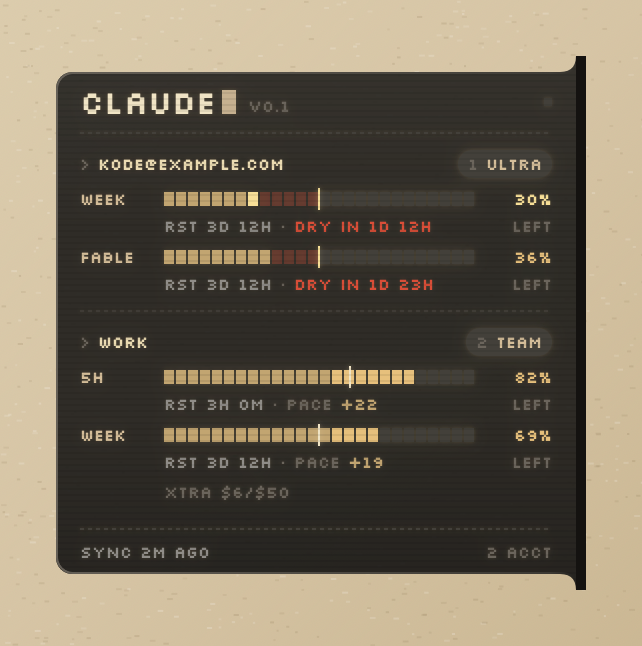
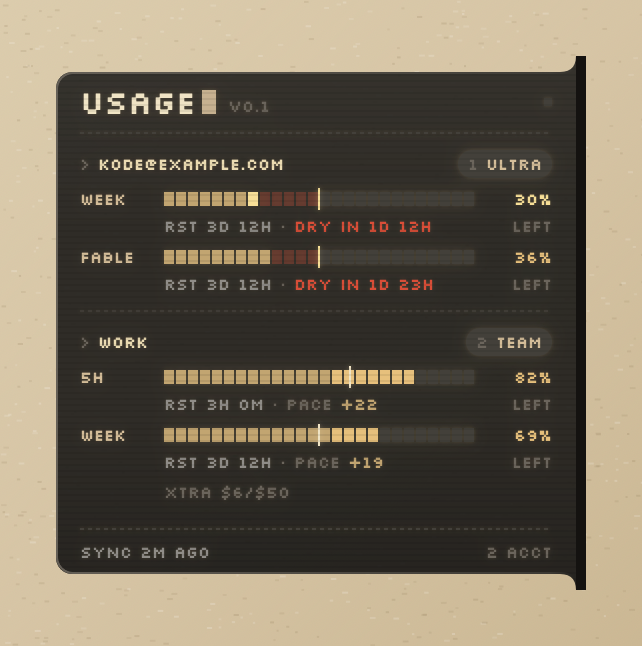
docs: shorten the README and re-render screenshots
The introduction describes the app in neutral terms; the CLI is named where setup
needs it (requirements, sign-in commands, keychain entry, disclaimer). The images
show the new panel header.

Changed region(s): [[0.1246, 0.1238, 0.4361, 0.1858]]

diff --git a/README.md b/README.md
@@ -2,7 +2,7 @@
 
 [![build](https://github.com/konstantindenerz/usage-invader/actions/workflows/build.yml/badge.svg)](https://github.com/konstantindenerz/usage-invader/actions/workflows/build.yml)
 
-A small macOS overlay that shows how much of your Claude subscription is left, for one or
+A small macOS overlay that shows how much of your subscription usage is left, for one or
 several accounts, as a pixel strip on the right edge of the screen. Hover the strip and it
 expands into a panel with percentages, reset countdowns and your burn pace.
 
@@ -16,13 +16,13 @@ expands into a panel with percentages, reset countdowns and your burn pace.
 ## Features
 
 - **All limits at a glance:** current session (5 h), current week, and model-specific weekly limits.
-- **Multiple accounts:** every Claude Code login on the machine is found automatically.
+- **Multiple accounts:** every signed-in account on the machine is found automatically.
 - **Pace:** shows whether you are ahead of or behind an even burn, and when a limit runs dry
   at the current rate.
 - **Stays out of the way:** no Dock icon, a strip of 25.5 pt at the screen edge, plus a menu bar
   item that shows the lowest remaining percentage.
 - **Two skins** for the collapsed strip: Invader (default) and Instrument.
-- **Read-only and local:** reads the token Claude Code already stores, talks only to
+- **Read-only and local:** reads the token already stored in your keychain, talks only to
   `api.anthropic.com`, has no third-party dependencies and no telemetry.
 
 ## Screenshots
@@ -40,7 +40,7 @@ All images are rendered from demo data with `--readme-shots`.
 ## Requirements
 
 - macOS 14 or later
-- [Claude Code](https://claude.com/claude-code), signed in at least once (`/login`)
+- [Claude Code](https://claude.com/claude-code) ("the CLI" below), signed in at least once (`/login`)
 - To build from source: a Swift 6 toolchain (Xcode 16 or later)
 
 ## Install
@@ -66,7 +66,7 @@ cd usage-invader
 scripts/run.sh              # builds build/UsageInvader.app and launches it
 ```
 
-On first launch macOS may ask whether `security` may access the Claude Code keychain item.
+On first launch macOS may ask whether `security` may access the CLI's keychain item.
 Choose **Always Allow**; see [Security and privacy](#security-and-privacy) for what that means.
 
 ## Usage
@@ -106,10 +106,9 @@ Ctrl-click opens the menu.
 
 ## Multiple accounts
 
-Claude Code keeps one keychain entry per config directory (`Claude Code-credentials`,
-`Claude Code-credentials-<hash>`). Usage Invader finds all of them.
+Every config directory of the CLI has its own keychain entry. Usage Invader finds all of them.
 
-To add an account, start Claude Code with its own config directory and sign in:
+To add an account, start the CLI with its own config directory and sign in:
 
 ```sh
 CLAUDE_CONFIG_DIR=~/.claude-work claude    # then type /login
@@ -124,7 +123,7 @@ alias claude-work='CLAUDE_CONFIG_DIR=~/.claude-work claude'
 The account appears on the next refresh. Give it a name, hide it or reorder it under
 **Settings…**.
 
-Accounts are per machine. On another Mac, sign in to Claude Code there; nothing is synced.
+Accounts are per machine. On another Mac, sign in there; nothing is synced.
 
 ## Command line
 
@@ -145,8 +144,8 @@ Run these on the binary, e.g. `build/UsageInvader.app/Contents/MacOS/UsageInvade
 1. `/usr/bin/security dump-keychain` lists keychain metadata; entries whose service starts with
    `Claude Code-credentials` are the accounts.
 2. `/usr/bin/security find-generic-password` reads the OAuth token of each account.
-3. The app requests `https://api.anthropic.com/api/oauth/usage` (the source behind `/usage` in
-   Claude Code) and, at most once a day, `/api/oauth/profile` for the email and plan.
+3. The app requests `https://api.anthropic.com/api/oauth/usage` (the source behind the CLI's
+   `/usage` command) and, at most once a day, `/api/oauth/profile` for the email and plan.
 
 Requests are budgeted per account: one automatic request per poll interval (never less than
 2 minutes apart, also across restarts), and at most one every 20 seconds for **Refresh now** and
@@ -154,7 +153,7 @@ Requests are budgeted per account: one automatic request per poll interval (neve
 the last values.
 
 Tokens are never refreshed or written. If one has expired, the account is shown as stale; start
-`claude` in that account once and Claude Code renews it.
+`claude` in that account once and the token is renewed.
 
 ## Security and privacy
 
@@ -163,11 +162,11 @@ Tokens are never refreshed or written. If one has expired, the account is shown 
 - **Local data:** `~/Library/Caches/UsageInvader/` holds the last usage values with the account
   email, name and plan (`last.json`) and the request budget (`fetch-state.json`), readable by
   your user only. Settings live in the `com.kode.usageinvader` defaults domain.
-- **Trust model:** once `security` is allowed to read the Claude Code keychain item, every
-  process running as your user can read that token the same way. Claude Code itself relies on
+- **Trust model:** once `security` is allowed to read the CLI's keychain item, every
+  process running as your user can read that token the same way. The CLI itself relies on
   this; Usage Invader does not widen it.
 - **Keychain listing:** discovery reads the metadata (not the secrets) of all keychain items and
-  keeps only the Claude Code entries.
+  keeps only the matching entries.
 - **Window positions:** *Fit to free margin* reads the bounds of on-screen windows. It does not
   read their titles or contents and needs no Screen Recording permission.
 - **Build:** no third-party dependencies. The bundle is ad-hoc signed with the hardened runtime
@@ -176,7 +175,7 @@ Tokens are never refreshed or written. If one has expired, the account is shown 
 ## Disclaimer
 
 Usage Invader is not affiliated with or endorsed by Anthropic. Claude is a trademark of
-Anthropic. The app relies on an undocumented endpoint and on the credentials Claude Code stores
+Anthropic. The app relies on an undocumented endpoint and on the credentials the CLI stores
 locally; the endpoint may change or stop working at any time. Use it at your own discretion.
 
 ## Development
